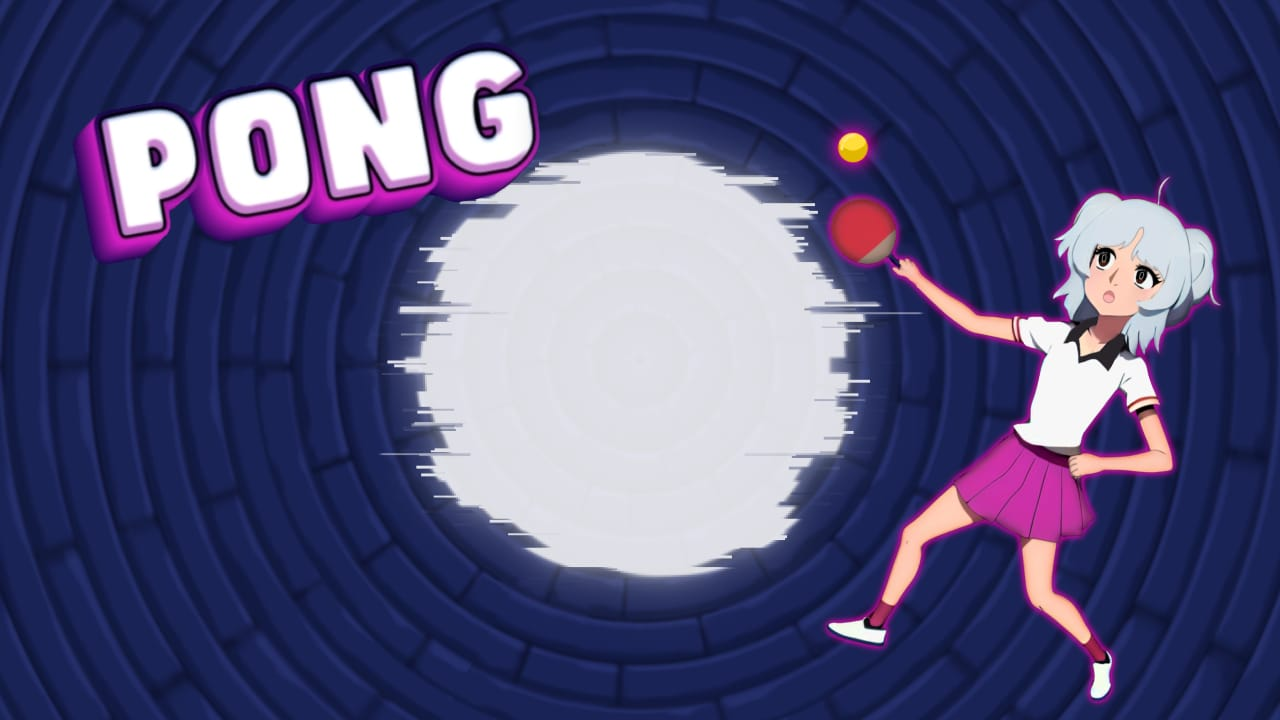
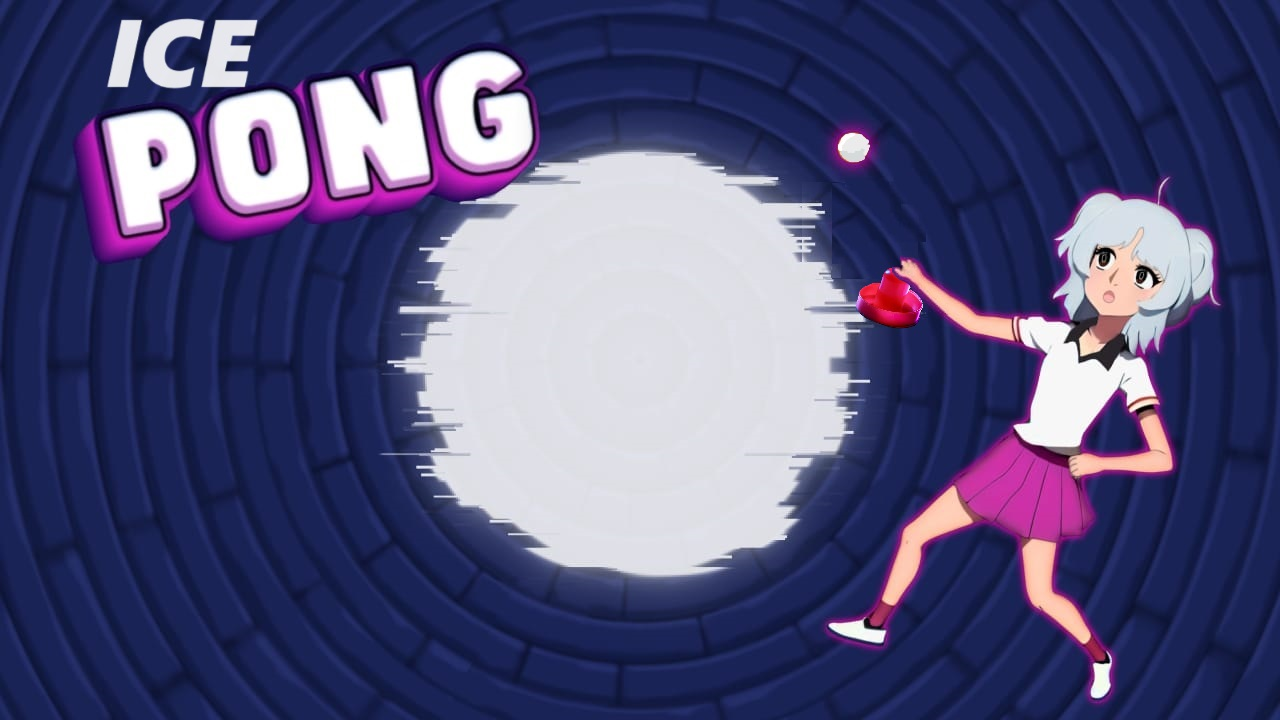
Add files via upload

Changed region(s): [[0.625, 0.1833, 0.75, 0.4583], [0.0625, 0.0, 0.2188, 0.1222]]

diff --git a/Završni kod.py b/Završni kod.py
@@ -7,7 +7,7 @@ pygame.init()
 # Postavke prozora
 screen_width, screen_height = 1280, 720
 screen = pygame.display.set_mode((screen_width, screen_height))
-pygame.display.set_caption("Pong")
+pygame.display.set_caption("ICE Pong")
 
 # Pozadine
 background_image_path = os.path.join("pozadina_start.jpg")
@@ -63,7 +63,7 @@ def start_1vs1_game():
         # Postavke prozora
     width, height = 1280, 720
     screen = pygame.display.set_mode((width, height))
-    pygame.display.set_caption("Pong")
+    pygame.display.set_caption("ICE Pong")
 
     # Postavke igre
     clock = pygame.time.Clock()
@@ -222,12 +222,12 @@ def start_1vs1_game():
             menu_x = (width - menu_width) // 2
             menu_y = (height - menu_height) // 2
 
-            pygame.draw.rect(screen, (128, 0, 128), (menu_x, menu_y, menu_width, menu_height))
+            pygame.draw.rect(screen, (207, 159, 255), (menu_x, menu_y, menu_width, menu_height))
 
         # Prikaz menija
             menu_font = pygame.font.Font(None, 60)
             restart_text_surface = menu_font.render("Restart", True, text_color)
-            menu_text_surface = menu_font.render("Return to Menu", True, text_color)
+            menu_text_surface = menu_font.render("Izlaz", True, text_color)
         
         # Poruka koja pokazuje tko je pobijedio
             winner_font = pygame.font.Font(None, 45)
@@ -241,8 +241,8 @@ def start_1vs1_game():
 
             spacing = 20  
 
-            restart_text_rect = pygame.Rect((menu_x + menu_width // 2 - button_width // 2, menu_y + menu_height // 2 - button_height - spacing, button_width, button_height))
-            menu_text_rect = pygame.Rect((menu_x + menu_width // 2 - button_width // 2, menu_y + menu_height // 2 + spacing, button_width, button_height))
+            restart_text_rect = pygame.Rect((menu_x + menu_width // 2 - button_width // 2, menu_y + menu_height // 2.2 - button_height - spacing, button_width, button_height))
+            menu_text_rect = pygame.Rect((menu_x + menu_width // 2 - button_width // 2, menu_y + menu_height // 2.2 + spacing, button_width, button_height))
 
             pygame.draw.rect(screen, element_color, restart_text_rect, 2)
             pygame.draw.rect(screen, element_color, menu_text_rect, 2)
@@ -353,7 +353,7 @@ def start_vs_bot_game():
     # Postavke prozora
     width, height = 1280, 720
     screen = pygame.display.set_mode((width, height))
-    pygame.display.set_caption("Pong")
+    pygame.display.set_caption("ICE Pong")
     # Postavke igre
     clock = pygame.time.Clock()
     fps = 60
@@ -522,12 +522,12 @@ def start_vs_bot_game():
             menu_x = (width - menu_width) // 2
             menu_y = (height - menu_height) // 2
 
-            pygame.draw.rect(screen, (128, 0, 128), (menu_x, menu_y, menu_width, menu_height))
+            pygame.draw.rect(screen, (207, 159, 255), (menu_x, menu_y, menu_width, menu_height))
 
         # Prikaz menija
             menu_font = pygame.font.Font(None, 60)
             restart_text_surface = menu_font.render("Restart", True, text_color)
-            menu_text_surface = menu_font.render("Return to Menu", True, text_color)
+            menu_text_surface = menu_font.render("Izlaz", True, text_color)
         
         # Poruka koja pokazuje tko je pobijedio
             winner_font = pygame.font.Font(None, 45)
@@ -541,8 +541,8 @@ def start_vs_bot_game():
 
             spacing = 20  
 
-            restart_text_rect = pygame.Rect((menu_x + menu_width // 2 - button_width // 2, menu_y + menu_height // 2 - button_height - spacing, button_width, button_height))
-            menu_text_rect = pygame.Rect((menu_x + menu_width // 2 - button_width // 2, menu_y + menu_height // 2 + spacing, button_width, button_height))
+            restart_text_rect = pygame.Rect((menu_x + menu_width // 2 - button_width // 2, menu_y + menu_height // 2.2 - button_height - spacing, button_width, button_height))
+            menu_text_rect = pygame.Rect((menu_x + menu_width // 2 - button_width // 2, menu_y + menu_height // 2.2 + spacing, button_width, button_height))
 
             pygame.draw.rect(screen, element_color, restart_text_rect, 2)
             pygame.draw.rect(screen, element_color, menu_text_rect, 2)
